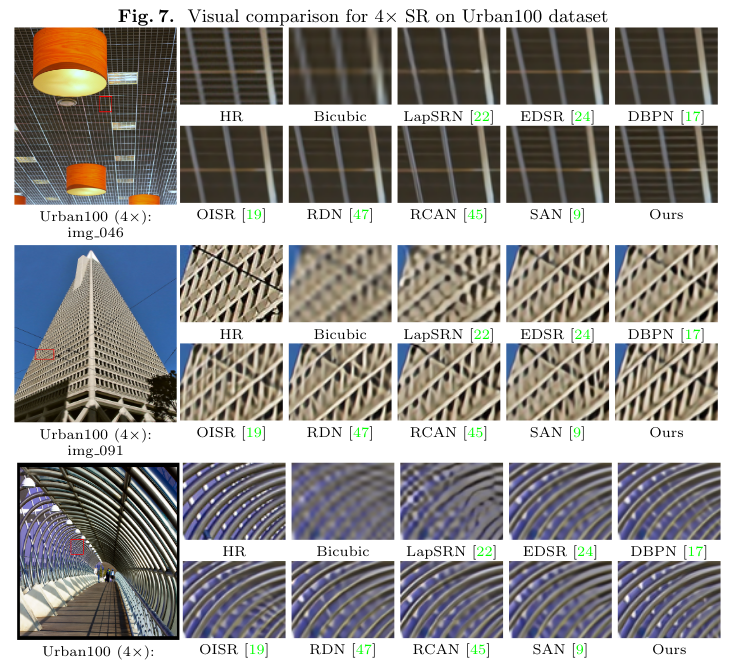
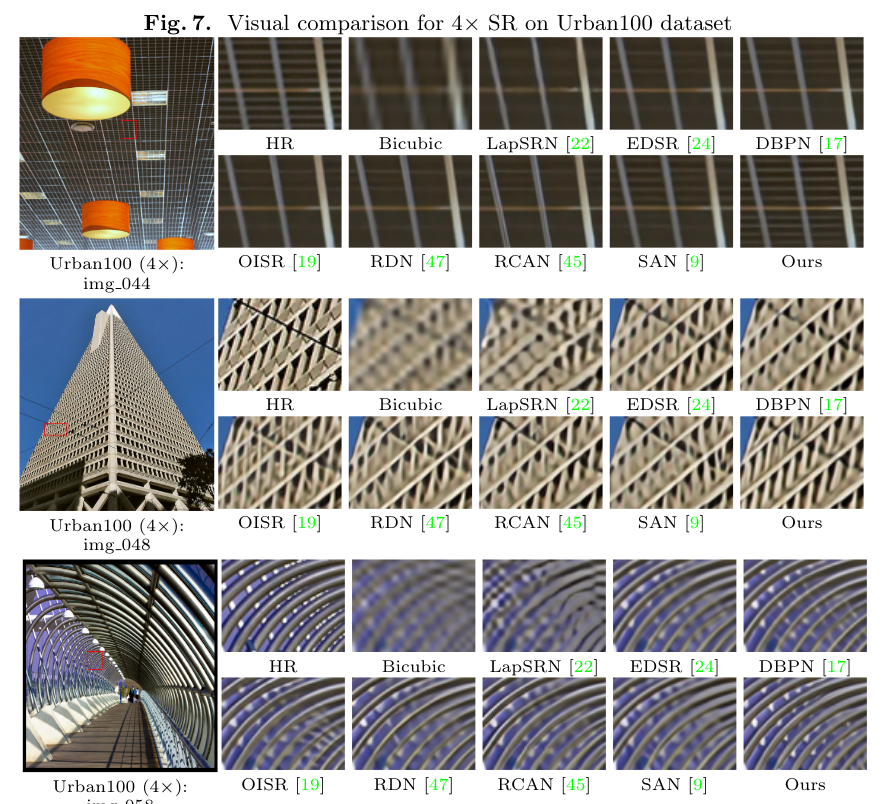
add visual results

diff --git a/CAR/README.md b/CAR/README.md
@@ -39,7 +39,7 @@ For more informaiton, please refer to [EDSR(PyTorch)](https://github.com/thstkdg
 
 ### Begin to train
 
-1. (optional) All the pretrained models can be downloaded from [Google Drive](https://drive.google.com/open?id=1q9iUzqYX0fVRzDu4J6fvSPRosgOZoJJE).
+1. (optional) All the pretrained models and visual results can be downloaded from [Google Drive](https://drive.google.com/open?id=1q9iUzqYX0fVRzDu4J6fvSPRosgOZoJJE).
 
 2. Cd to 'PANet-PyTorch/[Task]/code', run the following scripts to train models.
 

diff --git a/DN_RGB/README.md b/DN_RGB/README.md
@@ -40,7 +40,7 @@ For more informaiton, please refer to [EDSR(PyTorch)](https://github.com/thstkdg
 
 ### Begin to train
 
-1. (optional) All the pretrained models can be downloaded from [Google Drive](https://drive.google.com/open?id=1q9iUzqYX0fVRzDu4J6fvSPRosgOZoJJE).
+1. (optional) All the pretrained models and visual results can be downloaded from [Google Drive](https://drive.google.com/open?id=1q9iUzqYX0fVRzDu4J6fvSPRosgOZoJJE).
 
 2. Cd to 'PANet-PyTorch/[Task]/code', run the following scripts to train models.
 

diff --git a/Demosaic/README.md b/Demosaic/README.md
@@ -33,7 +33,7 @@ For more informaiton, please refer to [EDSR(PyTorch)](https://github.com/thstkdg
 
 ### Begin to train
 
-1. (optional) All the pretrained models can be downloaded from [Google Drive](https://drive.google.com/open?id=1q9iUzqYX0fVRzDu4J6fvSPRosgOZoJJE).
+1. (optional) All the pretrained models and visual results can be downloaded from [Google Drive](https://drive.google.com/open?id=1q9iUzqYX0fVRzDu4J6fvSPRosgOZoJJE).
 
 2. Cd to 'PANet-PyTorch/[Task]/code', run the following scripts to train models.
 

diff --git a/SR/README.md b/SR/README.md
@@ -23,7 +23,7 @@ For more informaiton, please refer to [EDSR(PyTorch)](https://github.com/thstkdg
 
 ### Begin to train
 
-1. (optional) All the pretrained models can be downloaded from [Google Drive](https://drive.google.com/open?id=1q9iUzqYX0fVRzDu4J6fvSPRosgOZoJJE).
+1. (optional) All the pretrained models and visual results can be downloaded from [Google Drive](https://drive.google.com/open?id=1q9iUzqYX0fVRzDu4J6fvSPRosgOZoJJE).
 
 2. Cd to 'PANet-PyTorch/[Task]/code', run the following scripts to train models.
 
